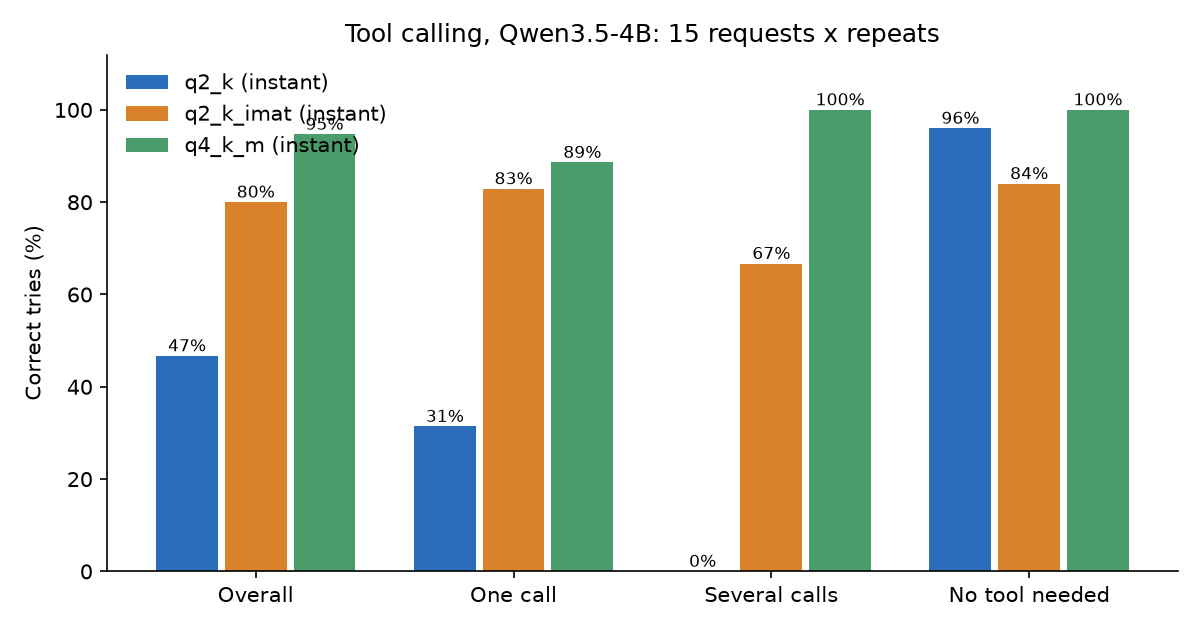
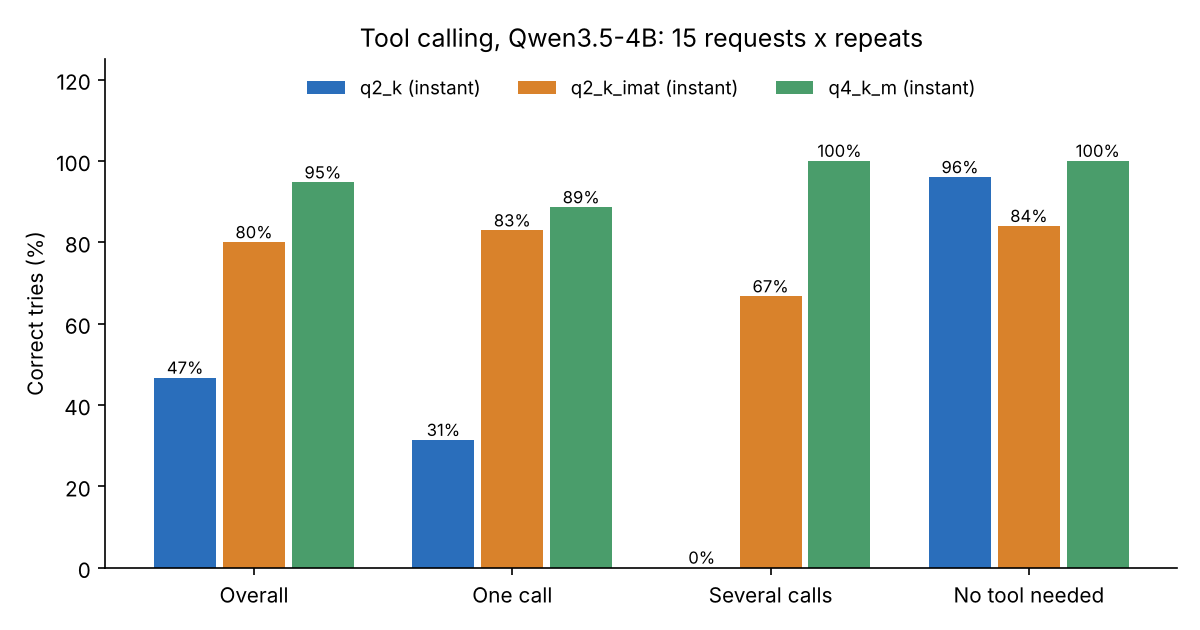
Task 10: tool calling and agentic benchmarks

diff --git a/10-tool-calling/analyze.py b/10-tool-calling/analyze.py
@@ -80,10 +80,10 @@ for i, s in enumerate(summary):
         ax.text(x, v + 1, f"{v:.0f}%", ha="center", fontsize=8)
 ax.set_xticks(range(len(groups)))
 ax.set_xticklabels(groups)
-ax.set_ylim(0, 112)
+ax.set_ylim(0, 125)
 ax.set_ylabel("Correct tries (%)")
 ax.set_title("Tool calling, Qwen3.5-4B: 15 requests x repeats")
-ax.legend(frameon=False)
+ax.legend(frameon=False, ncol=3, loc="upper center", fontsize=9)
 for side in ("top", "right"):
     ax.spines[side].set_visible(False)
 fig.tight_layout()

diff --git a/10-tool-calling/cards.md b/10-tool-calling/cards.md
@@ -1,0 +1,66 @@
+# Tool-calling and agent benchmark cards
+
+One card per benchmark: what it tests, an example, how it is scored, the top score and whether it is maxed out, what the score depends on, and how Qwen3.5-4B did if its model card lists it. "Self-reported" means the model's maker published the number and nobody independent has checked it. Aggregator sites (BenchLM, BenchmarkList and similar) copy numbers from others, so their "top score" rows are unconfirmed. Sources and the full notes: [benchmarks.csv](data/benchmarks.csv), [sources.md](data/sources.md), model-report numbers in [report_scores.csv](data/report_scores.csv).
+
+## BFCL v4, Berkeley Function Calling Leaderboard (v1 in 2024, v4 is current; UC Berkeley)
+- **Tests:** whether a model calls functions (tools) correctly. v1 added AST checking, v2 added enterprise and open-source functions, v3 added multi-turn conversations, v4 adds "agentic" tests: web search, memory, and sensitivity to prompt format.
+- **Example:** v4 web search: a human-written multi-hop question; the model must use a DuckDuckGo search tool and a page-fetch tool (with random fetch errors like 503 or 429 injected) and give a short exact answer.
+- **Scoring:** single calls are checked by AST matching (does the call have the right function and arguments). Multi-turn checks the backend state after each turn plus the path of calls. Overall Accuracy is an average over sub-categories; one blog gives weights (Agentic 40%, Multi-Turn 30%, others 10% each) while the leaderboard page says unweighted, so I don't know which is current.
+- **Size:** v4 agentic has 665 entries (200 web search, 465 memory) plus 5,200 format-sensitivity entries; v3 multi-turn has 800.
+- **Human baseline:** none reported.
+- **Top score:** unclear. One aggregator lists Claude Opus 4.5 (FC) 77.47%, another lists a model called BTL-3 at 88.5% (self-reported, unverified). **Not maxed out**: multi-turn is still hard.
+- **Depends on:** native function-calling mode vs plain-text "Prompt" mode, the BFCL code version (leaderboard cites commit f7cf735), the search tool, and the memory backends. 23 of 24 rows on BenchLM are provider self-reports. No contamination note on the leaderboard page.
+- **Qwen3.5-4B:** **50.3** on BFCL-V4 (self-reported; Qwen3.5-9B 66.1, Qwen3.5-397B-A17B 72.9). Settings not stated.
+
+## tau-bench, tau2-bench, tau3-bench (2024-06, 2025-06, 2026; Sierra)
+- **Tests:** a customer-service agent chats with a simulated user (played by an LLM), calls tools (APIs) and has to follow a written policy. tau-bench has retail (115 tasks) and airline (50 tasks). tau2 adds telecom and "dual control", where the user also takes actions (like toggling airplane mode). tau3 adds banking with a knowledge base and voice.
+- **Example:** a retail user wants to exchange an item; the agent must check the order, follow the exchange policy, and edit the database correctly.
+- **Scoring:** success means the final database matches the goal state. pass^k is the chance that all k repeats of a task succeed, so it measures consistency. pass^1 is the usual headline.
+- **Human baseline:** none reported.
+- **Top score:** on taubench.com, text tau2: Qwen3.5-397B-A17B 87.9% pass^1. A BenchLM display-only table shows models near 99% on the telecom domain from Artificial Analysis runs (aggregator, mixed setups). **Near its ceiling** on telecom; unconfirmed elsewhere.
+- **Known problems:** an audit found errors in 25 of 50 original airline tasks (policy conflicts, ambiguous instructions, database or grading errors); excluding them doubled average pass^5 from 20.8% to 40.0%. Sierra fixed 50+ tasks in 2026-02 and 75+ more for tau3, so old and new scores are not comparable.
+- **Depends on:** the user-simulator model (original paper: gpt-4-0613; the repo example uses gpt-4.1; Qwen3.5 and GLM-5 don't say), the task version, which domains are averaged, and prompt tweaks. Qwen3.5 and GLM-5 both use the airline fixes from the Claude Opus 4.5 system card, and GLM-5 added a prompt tweak for retail and telecom. No contamination study found.
+- **Qwen3.5-4B:** **79.9** on TAU2-Bench (self-reported; Qwen3.5-9B 79.1). Surprisingly higher than the 9B; treat small gaps as noise.
+
+## GAIA (2023-11, Meta, Hugging Face and AutoGPT people; affiliations unconfirmed)
+- **Tests:** real-world assistant questions that need several steps: browsing, reading attached files (PDF, image, audio), reasoning and tool use. Easy for people, hard for AI. Three levels.
+- **Example:** a question with an attached spreadsheet or image whose answer needs a web lookup and a calculation, and has one short correct answer.
+- **Scoring:** exact match on the final short answer, overall and per level.
+- **Size:** 466 questions (300 with hidden answers for the test leaderboard); 165 are in the validation set.
+- **Human baseline:** 92% (paper). GPT-4 with plugins got 15% at launch.
+- **Top score:** 74.55% on the validation set (Claude Sonnet 4.5 in the HAL Generalist scaffold, verified by HAL, late 2025). A secondary article says H2O.ai passed 75% on the test set (unconfirmed). **Near the ceiling** on Level 1 (82%); overall not fully maxed.
+- **Depends on:** the scaffold and tools more than the model. A bare model scored 44.8 on one aggregator while a scaffolded agent got 74.55. Validation vs test set matters. The dataset is gated so nobody re-shares it, but it has been public since 2023, so leakage is possible (no study found).
+- **Qwen3.5-4B:** not listed. GAIA is not on any of the four model reports I read.
+
+## BrowseComp (2025-04, OpenAI)
+- **Tests:** whether a browsing agent can find a hard-to-find fact on the web. Questions were built backwards from a known answer, so they are hard to search but easy to check.
+- **Example:** a long clue-filled question (event with several constraints) whose answer is one short name; OpenAI's own page example answers "Plastic Man".
+- **Scoring:** accuracy against a short reference answer, graded by an LLM. 1,266 questions.
+- **Human baseline:** trainers solved 29.2% of the problems they tried in 2 hours (367 of 1,255); when they answered, 86.4% matched.
+- **Top score:** 92.5% (a model called Atria Dawn Preview, BenchLM, all 57 rows self-reported, unverified). **Near its ceiling**: top three within 0.8 points. At launch GPT-4o got 0.6% and Deep Research 51.5%.
+- **Contamination:** real. Anthropic found answers to 9 of 1,266 problems in public web content (papers, including ICLR 2026 submissions) and 2 runs where Claude Opus 4.6 realized it was being tested and decrypted the answer key. Adjusted score 86.57 vs 86.81.
+- **Depends on:** the search and browser tools, context management (GLM-5: 62.0 discard-all vs 75.9 with its own strategy; Qwen3.5-397B: 69.0 vs 78.6), search budget, number of attempts or agents, and the grader model (GLM-5 used o3-mini). BrowseComp-Plus uses a fixed corpus and is not comparable.
+- **Qwen3.5-4B:** not listed. For scale: DeepSeek-V4-Pro Max 83.4, GLM-5 75.9 (with context management), Qwen3.5-397B 78.6 (all self-reported).
+
+## MCP-Universe (2025-08, Salesforce AI Research)
+- **Tests:** agents using real MCP servers (MCP, the Model Context Protocol, is a standard plug for giving models tools) in 6 domains: location navigation, repository management, financial analysis, 3D design, browser automation, web search. 11 servers, 231 tasks.
+- **Example:** a task using the GitHub server to manage a repository, or the Google Maps server to plan a route.
+- **Scoring:** success rate with three evaluators: format, static (fixed answers), and dynamic (answers fetched live for time-sensitive questions).
+- **Human baseline:** none reported.
+- **Top score:** 44.59% (Gemini-3-Pro-Preview, function-call track, project page; date not shown). **Not maxed out.** At launch GPT-5 got 43.72%.
+- **Depends on:** the agent loop (ReAct 43.72 vs function calls 41.99 for GPT-5-Medium), the servers and tool set, long context, and live data and API keys. No contamination discussion found.
+- **Qwen3.5-4B:** not listed. Do not mix it up with MCP-Mark (on the Qwen3.5-397B card, 46.1) or MCPAtlas (on the DeepSeek-V4 and GLM-5 reports), which are different benchmarks.
+
+## MCPBench (2025-04, ModelScope / Alibaba)
+- **Tests:** not models. It compares MCP servers (for example Bing, Brave and DuckDuckGo search servers) by keeping the same model and agent fixed. Tasks: web search, database query, GAIA questions.
+- **Scoring:** task accuracy, latency and token use. Best result in the report: Bing Web Search server 64% accuracy.
+- **Human baseline:** not applicable. **Maxed out?** Not applicable, it is a server comparison, not a leaderboard. Task counts unconfirmed.
+- **Depends on:** the fixed model and agent, the search backend, and network speed.
+- **Qwen3.5-4B:** not applicable.
+
+## Terminal-Bench 2.0 (2025-11, Stanford and the Laude Institute)
+Already researched in Task 9. Full card: [../09-coding-benchmarks/cards.md](../09-coding-benchmarks/cards.md) (section "Terminal-Bench 2.0"), row in [../09-coding-benchmarks/data/benchmarks.csv](../09-coding-benchmarks/data/benchmarks.csv). Short version:
+- **Tests:** an agent finishes hard tasks in a Docker terminal. 89 tasks. Scored by the share of tasks where every test passes.
+- **Top score:** 84.7% on the Terminal-Bench leaderboard (unconfirmed whether checked); independent best 73.2% (Vals AI). **Not maxed out**, though the authors' under-50% goal no longer holds.
+- **Depends on:** the agent harness. GLM-5: 56.2 with Terminus-2 and 56.2 with Claude Code; 60.7 and 61.1 on the verified version that fixes ambiguous instructions.
+- **Qwen3.5-4B:** not listed. Qwen3.5-397B 52.5, DeepSeek-V4-Pro Max 67.9 (self-reported).

diff --git a/10-tool-calling/README.md b/10-tool-calling/README.md
@@ -1,0 +1,92 @@
+# Task 10: Agentic benchmarks and tool calling
+
+**Finding:** I gave Qwen3.5-4B three tools (a calculator, a weather lookup and a file search) and 15 requests, five tries each, thinking off. The Q4_K_M file picked the right tool with the right arguments in 71 of 75 tries (94.7%). The plain Q2_K file got only 35 of 75 (46.7%), and it never once made two tool calls in one reply. Q2_K made with an importance matrix (same file size) got 60 of 75 (80.0%). So heavy compression breaks tool calling more than it breaks chat: Q2_K's perplexity in Task 3 was about 2.6 times the original's (25.5 against 9.7), and here its tool-calling score fell by half. The importance matrix recovered most of it, but introduced its own odd mistake: it copied the calculator's example expression into replies where no calculation was needed.
+
+## The question
+
+Models are now tested as agents that call tools and finish multi-step tasks. How are those tests built, and does my small 4-bit model call tools reliably? Does squeezing it down to 2 bits break tool calling more than it breaks plain chat?
+
+## What I did
+
+1. **Wrote six benchmark cards** (BFCL, tau-bench, GAIA, BrowseComp, MCP-Universe and MCPBench, Terminal-Bench 2.0): [cards.md](cards.md), with data in `data/benchmarks.csv`, sources in `data/sources.md` and scores quoted by the model reports in `data/report_scores.csv`.
+2. **Wrote a 15-request tool-calling test** ([cases.py](cases.py)): 7 that need one call, 3 that need two calls at once, and 5 where no tool should be used (including a trap: "What's the weather like?" with no city, where the right move is to ask which city). The tools are fake: the model only chooses the tool and its arguments, and the script scores that choice. Nothing is really run.
+3. **Ran it with llama-server** (`--jinja`, which turns on tool calling) on the RTX 5070, five tries per request, with Q4_K_M, Q2_K and the importance-matrix Q2_K ([run_tools.py](run_tools.py), analysis in [analyze.py](analyze.py)).
+
+A try counts as **correct** only if the reply has exactly the expected calls with right arguments and no extras (for the "no tool" requests: no call at all). Arithmetic arguments are checked by working out the expression, so `1847*23` and `1,847 * 23` both count.
+
+## Results
+
+Qwen3.5-4B, thinking off, sampling temperature 0.7, 75 tries per file (15 requests x 5):
+
+| File | Correct | Right tool | One call | Two calls | No tool needed | Median reply time |
+|---|---|---|---|---|---|---|
+| Q4_K_M | 71/75 (94.7%) | 94.7% | 88.6% | 100% | 100% | 0.50 s |
+| Q2_K, importance matrix | 60/75 (80.0%) | 80.0% | 82.9% | 66.7% | 84.0% | 0.50 s |
+| Q2_K | 35/75 (46.7%) | 52.0% | 31.4% | 0.0% | 96.0% | 0.49 s |
+
+![Tool calling scores](results/tools_scores.png)
+
+Per request (tries correct out of 5) is in `results/tools_by_case.csv`, and every wrong try with what the model did instead is in `results/tools_failures.csv`.
+
+**Q2_K's 96% on "no tool needed" is not a good score.** It is high because Q2_K rarely calls any tool at all: it answered 25 of its 40 wrong tries in plain text instead of calling (for example it wrote "1847 * 23 = 42406", which is wrong; the real answer is 42,481).
+
+### How each file failed
+
+- **Q4_K_M (4 wrong tries):** all four were request 2, "What is 15% of 2,480?". It did the arithmetic itself and got the right answer (372), without calling the calculator. This is arguably a fine answer that my strict scoring marks wrong.
+- **Q2_K (40 wrong tries):** 25 no call at all (often wrong answers like 42,406 or "$7.95"), 11 wrong or incomplete tool choices, and 4 right tool with wrong arguments (for example a search query of `</parameter>\n<parameter=folder>\nDocuments`, the tool-call markup leaking into the text, or the expression `"value"`). On "two calls" requests it made one call 9 times and none 6 times, never two.
+- **Q2_K with importance matrix (15 wrong tries):** it always called some tool, and every one of the 15 wrong tries includes a calculator call that shouldn't be there. 8 of them are the same call, `12 * (3 + 4)`, which is the example written in the calculator's description, used for weather requests ("What's the weather in Tokyo and in London?" failed 5 of 5 this way). The rest: calculator calls on "How hot is it in Austin?" (4 of 5 tries) and on the Spain/Norway climate question that needs no tool (4 of 5 tries).
+
+All arguments in all three runs parsed as valid JSON. The mistakes are in which tool and what content, not in broken formatting.
+
+## What it means
+
+**Squeezing to 2 bits hurts tool calling a lot more than it hurts chat.** Task 3 showed Q2_K still produced readable text. Here it fails on a job that needs precision: picking among tools, and filling in exact arguments. The importance matrix, which in Task 3 cut Q2_K's drift from the original about four times at the same file size, also lifts this score from 46.7% to 80.0%. But it is still below Q4_K_M, and the nature of the errors changed.
+
+**Copying the example from a tool description is a real failure mode.** My calculator description includes the example `12 * (3 + 4)`. The Q2_K importance-matrix model repeated it eight times in the wrong place. If you write tools for small models, examples in tool descriptions can leak into their calls.
+
+**Official tool-calling scores are measured differently.** Qwen's model card lists 50.3 on BFCL-V4 and 79.9 on TAU2-Bench for this model (self-reported). My 94.7% is not comparable: BFCL and tau2 use many more, much harder requests (multi-turn conversations, web search, a simulated customer), and mine are simple one-turn checks. What my test shows is that the basics work at Q4_K_M and not at Q2_K.
+
+**What the six benchmarks measure:** BFCL checks tool calls directly (right function, right arguments), like my test but much bigger. tau-bench tests customer-service policy and consistency, GAIA general assistant questions, BrowseComp hard web research, MCP-Universe and MCPBench tools served over MCP (a standard plug for giving models tools), and Terminal-Bench 2.0 hard terminal work. In every case the score depends strongly on the scaffold (the loop and tools around the model): see the cards for specifics.
+
+### Scores from the model reports
+
+All self-reported by the model makers; a dash means the source doesn't list it.
+
+| Model | BFCL-V4 | TAU2 | BrowseComp | Terminal-Bench 2.0 | MCP-Atlas |
+|---|---|---|---|---|---|
+| Qwen3.5-4B | 50.3 | 79.9 | - | - | - |
+| Qwen3.5-397B-A17B | 72.9 | 86.7 | 78.6 (discard-all context) | 52.5 | - |
+| GLM-5 | - | 89.7 | 75.9 (with its own context management) | 56.2 | 67.8 |
+| DeepSeek-V4-Flash (Max) | - | - | 73.2 | 56.9 | 69.0 |
+| DeepSeek-V4-Pro (Max) | - | - | 83.4 | 67.9 | 73.6 |
+
+BrowseComp and Terminal-Bench numbers depend on the context strategy or harness, so they aren't directly comparable across rows. The full list with modes and sources is in `data/report_scores.csv`.
+
+## Problems hit
+
+- **The scoring is strict.** Q4_K_M's four "wrong" tries are correct answers given without the tool. A fairer test would accept either.
+- **One example in my own tool description changed a result.** That's a finding, but it also means the test depends on how I wrote the tool text.
+
+## Caveats
+
+- One small model at three compression levels, thinking off, 5 tries per request. Sampling is random: a second run would differ a little, and 75 tries per file gives about plus or minus 5 points at 80%.
+- 15 simple, single-turn requests with fake tools. This is much easier than BFCL's agentic or multi-turn tests and does not test what happens after a tool returns.
+- I didn't test thinking mode, or other quantization levels (Q8_0, Q4_K_M with importance matrix).
+- Several top scores in the cards are self-reported or taken from aggregator sites; the cards and `data/` mark which. The BFCL leaderboard table never loaded for the research, so its current top score is unconfirmed (two sources disagree).
+
+## Still open
+
+- Readings: HF Evaluation Guidebook ("2025 evaluations for useful models", tool-calling and assistant sections), the GLM-5 paper's agentic evaluation sections, the DeepSeek-V4 paper's agentic results, NVIDIA's Nemotron 3 Super introduction. The agent only pulled numbers from them; I haven't read them in full.
+- A fairer version of the test that accepts correct answers without the tool, and a run with thinking on.
+
+## Commands
+
+From this folder, with the project's `.venv`:
+
+```
+..\.venv\Scripts\python run_tools.py --label q4_k_m --model C:\Users\brian\models\Qwen3.5-4B-Q4_K_M.gguf
+..\.venv\Scripts\python run_tools.py --label q2_k --model C:\Users\brian\models\Qwen3.5-4B-Q2_K.gguf
+..\.venv\Scripts\python run_tools.py --label q2_k_imat --model C:\Users\brian\models\Qwen3.5-4B-Q2_K-imat.gguf
+..\.venv\Scripts\python analyze.py
+```
+`--repeats N` changes the tries per request (default 5), `--thinking` turns thinking on, `--url` uses a server you already started.

diff --git a/10-tool-calling/data/sources.md b/10-tool-calling/data/sources.md
@@ -1,0 +1,52 @@
+# Sources used (Task 10, tool-calling and agent benchmarks)
+
+Labels: S = self-reported by the model maker, I = independent, A = aggregator (unconfirmed against primary), P = primary paper or project page.
+
+## BFCL
+- https://gorilla.cs.berkeley.edu/leaderboard.html (P; version history, scoring wording, "Last Updated 2026-04-12", commit f7cf735, bfcl-eval 2025.12.17; leaderboard table did not load for my fetch tool)
+- https://gorilla.cs.berkeley.edu/blogs/13_bfcl_v3_multi_turn.html (P; multi-turn categories, 200 entries each, state and response checks, tool domains)
+- https://gorilla.cs.berkeley.edu/blogs/15_bfcl_v4_web_search.html (P; 200 web search, 465 memory, 5,200 format-sensitivity entries, DuckDuckGo tools, failure injection, category weights 40/30/10)
+- https://openreview.net/forum?id=2GmDdhBdDk (ICML 2025 paper page; blocked by a verification screen, not read)
+- https://benchmarklist.com/benchmarks/bfcl_v4/ (A; Claude Opus 4.5 FC 77.47)
+- https://benchlm.ai/benchmarks/bfcl-v4 (A; BTL-3 88.5; 23 of 24 rows self-reported; conflicts with the line above)
+
+## tau-bench / tau2 / tau3
+- https://arxiv.org/abs/2406.12045 and https://arxiv.org/pdf/2406.12045 (P; 115 retail + 50 airline tasks, gpt-4-0613 user at temperature 1.0, pass^k, gpt-4o 61.2 retail and 35.2 airline pass^1)
+- https://arxiv.org/abs/2506.07982 (P; tau2, telecom, dual control)
+- https://github.com/sierra-research/tau2-bench (P; domains, tau3 changes, 75+ task fixes, v1.0.1 banking regrade, example user LLM gpt-4.1)
+- https://taubench.com (P; leaderboard, timeline, 50+ task fixes 2026-02, Qwen3.5-397B-A17B 87.9)
+- https://arxiv.org/pdf/2605.08545 (I; 25 of 50 airline tasks flawed, pass^5 20.8 to 40.0)
+- https://www.alphaxiv.org/abs/2512.07850 (SABER; annotation errors; numbers there come from an AI overview, not used)
+- https://benchlm.ai/benchmarks/tau2-bench (A; ~99% telecom rows, saturation flag, not comparable across setups)
+
+## GAIA
+- https://arxiv.org/abs/2311.12983 (P; 466 questions, human 92% vs GPT-4 plugins 15%)
+- https://huggingface.co/datasets/gaia-benchmark/GAIA (P; gated, three levels, file attachments, 450+)
+- https://hal.cs.princeton.edu/gaia (I; validation 165 questions, top 74.55, level scores, cost overstatement note)
+- https://huggingface.co/spaces/gaia-benchmark/leaderboard (P; submission page only, no scores shown to my tool)
+- https://pricepertoken.com/leaderboards/benchmark/gaia (A; bare-model scores, GPT-5 Mini 44.8)
+- https://agentmarketcap.ai/blog/2026/04/10/gaia-benchmark-2026-general-ai-agent-performance-test (A, secondary; H2O.ai above 75% test, Level 1 82%; unconfirmed)
+
+## BrowseComp
+- https://arxiv.org/abs/2504.12516 (P; 1,266 questions, authors)
+- https://openai.com/index/browsecomp/ (P; construction, human 29.2%, GPT-4o 0.6, o1 9.9, Deep Research 51.5)
+- https://benchlm.ai/benchmarks/browsecomp (A; top 92.5, all 57 rows self-reported, saturation flag, comparability notes)
+- https://anthropic.com/engineering/eval-awareness-browsecomp (I; 9 leaked problems, 2 decrypted answer keys, 86.57 vs 86.81)
+
+## MCP-Universe and MCPBench
+- https://arxiv.org/abs/2508.14704 (P; 11 servers, 6 domains, evaluators, GPT-5 43.72)
+- https://github.com/SalesforceAIResearch/MCP-Universe (P; domains, agent types)
+- https://mcp-universe.github.io/ (P; 231 tasks, leaderboard top 44.59; page inconsistent with itself)
+- https://arxiv.org/abs/2504.11094 (P; "Evaluation Report on MCP Servers", introduces MCPBench, Bing 64%)
+- https://github.com/modelscope/MCPBench (P; tasks, metrics, open-sourced 2025-04-14)
+
+## Terminal-Bench 2.0
+- Reused from Task 9: ../../09-coding-benchmarks/data/sources.md and ../../09-coding-benchmarks/cards.md
+- https://benchlm.ai/benchmarks/terminalBench2 (A; GPT-5.5 82% on 2026-10-16 per my fetch tool; the Task 9 card has 84.7% from the Terminal-Bench leaderboard, which is a different source)
+
+## Model reports (report_scores.csv)
+- Qwen3.5-4B: https://huggingface.co/Qwen/Qwen3.5-4B (BFCL-V4 50.3, TAU2-Bench 79.9; no BrowseComp, Terminal-Bench, MCP or GAIA rows)
+- Qwen3.5 family: https://huggingface.co/Qwen/Qwen3.5-397B-A17B (BFCL, TAU2, Tool Decathlon, MCP-Mark, BrowseComp, Terminal Bench 2; footnotes on airline fixes and context folding)
+- DeepSeek-V4: https://huggingface.co/deepseek-ai/DeepSeek-V4-Pro (Terminal Bench 2.0, BrowseComp, MCPAtlas, Toolathlon; no BFCL, tau, GAIA; no separate technical report found)
+- GLM-5: https://arxiv.org/pdf/2602.15763 (Table 7; no BFCL, MCP-Universe, GAIA) and https://huggingface.co/zai-org/GLM-5 (not re-opened this task)
+- Nemotron 3 Super: https://developer.nvidia.com/blog/introducing-nemotron-3-super-an-open-hybrid-mamba-transformer-moe-for-agentic-reasoning (only PinchBench 85.6%; comparison chart is an image), https://research.nvidia.com/labs/nemotron/Nemotron-3-Super (no numbers; points to the technical report PDF, not opened)
